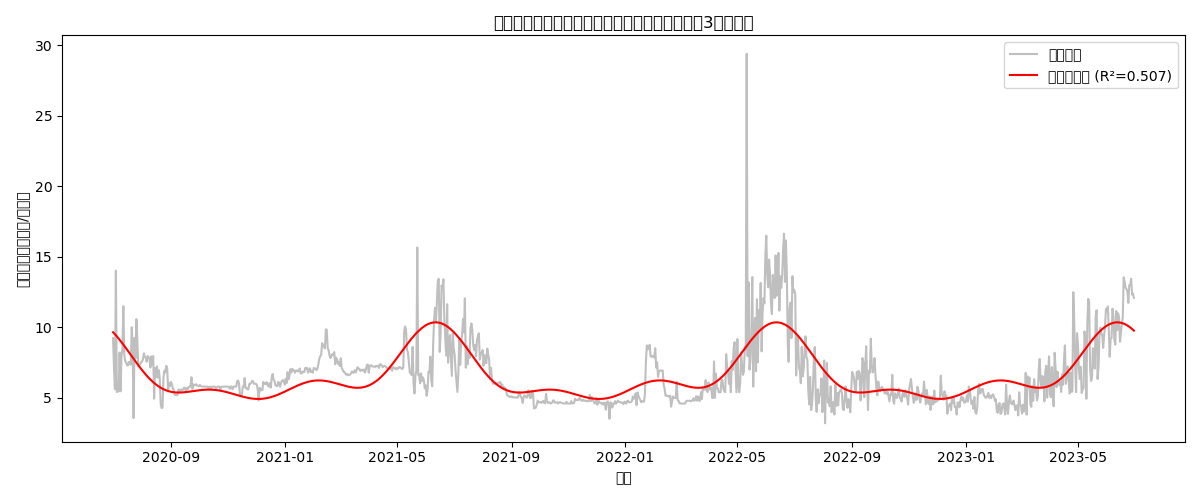
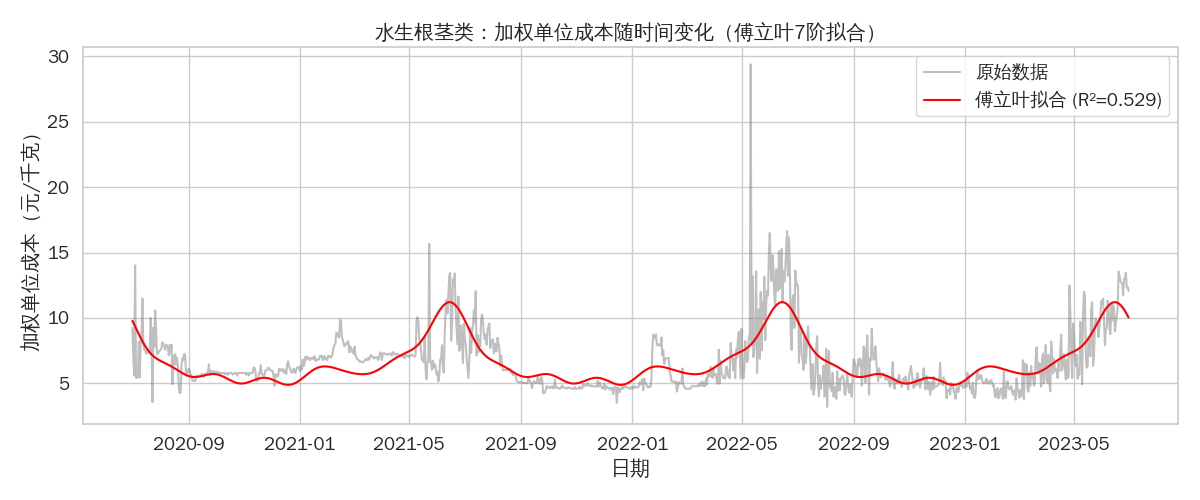
多方式尝试

diff --git a/Q2_Compare.py b/Q2_Compare.py
@@ -1,0 +1,146 @@
+import os
+import pandas as pd
+import numpy as np
+import matplotlib.pyplot as plt
+from sklearn.metrics import r2_score
+from scipy.optimize import curve_fit
+from prophet import Prophet
+from statsmodels.tsa.seasonal import STL
+import matplotlib
+matplotlib.rcParams['font.family'] = 'WenQuanYi Zen Hei'
+matplotlib.rcParams['axes.unicode_minus'] = False  # 解决负号显示问题
+
+# ========== 读取数据 ==========
+os.makedirs("拟合图像/傅立叶", exist_ok=True)
+os.makedirs("拟合图像/Prophet", exist_ok=True)
+os.makedirs("拟合图像/STL", exist_ok=True)
+
+
+
+print("读取中...")
+df = pd.read_excel("每日品类加权成本.xlsx")
+df['天序号'] = (df['销售日期'] - df['销售日期'].min()).dt.days
+
+# ========== 傅立叶函数 ==========
+def fourier_series(x, *a):
+    n = (len(a) - 1) // 2
+    result = a[0]
+    for i in range(1, n + 1):
+        result += a[2 * i - 1] * np.sin(2 * np.pi * i * x / 365.25)
+        result += a[2 * i] * np.cos(2 * np.pi * i * x / 365.25)
+    return result
+
+def fit_fourier(data, category, N=7):
+    x = data['天序号'].values
+    y = data['加权单位成本'].values
+    p0 = [0.0] * (2 * N + 1)
+    try:
+        params, _ = curve_fit(fourier_series, x, y, p0=p0, maxfev=10000)
+        y_pred = fourier_series(x, *params)
+        r2 = r2_score(y, y_pred)
+        res_std = np.std(y - y_pred)
+        amp = y_pred.max() - y_pred.min()
+        # 绘图
+        plt.figure(figsize=(10, 4))
+        plt.plot(data['销售日期'], y, label='原始', alpha=0.5)
+        plt.plot(data['销售日期'], y_pred, label='傅立叶拟合', color='red')
+        plt.title(f"{category} - 傅立叶 R²={r2:.3f}")
+        plt.legend()
+        plt.tight_layout()
+        plt.savefig(f"拟合图像/傅立叶/{category}.png")
+        plt.close()
+        return r2, res_std, amp
+    except:
+        return np.nan, np.nan, np.nan
+
+# ========== Prophet ==========
+def fit_prophet(data, category):
+    df_prophet = data[['销售日期', '加权单位成本']].rename(columns={
+        '销售日期': 'ds', '加权单位成本': 'y'
+    })
+    try:
+        model = Prophet(yearly_seasonality=True, weekly_seasonality=False, daily_seasonality=False)
+        model.fit(df_prophet)
+        future = df_prophet[['ds']]
+        forecast = model.predict(future)
+        y_pred = forecast['yhat'].values
+        y_true = df_prophet['y'].values
+        r2 = r2_score(y_true, y_pred)
+        res_std = np.std(y_true - y_pred)
+        amp = y_pred.max() - y_pred.min()
+        # 绘图
+        plt.figure(figsize=(10, 4))
+        plt.plot(df_prophet['ds'], y_true, label='原始', alpha=0.5)
+        plt.plot(df_prophet['ds'], y_pred, label='Prophet预测', color='green')
+        plt.title(f"{category} - Prophet R²={r2:.3f}")
+        plt.legend()
+        plt.tight_layout()
+        plt.savefig(f"拟合图像/Prophet/{category}.png")
+        plt.close()
+        return r2, res_std, amp
+    except:
+        return np.nan, np.nan, np.nan
+
+# ========== STL分解 ==========
+def fit_stl(data, category):
+    series = data.set_index('销售日期')['加权单位成本'].asfreq('D').interpolate()
+    try:
+        stl = STL(series, period=365)
+        res = stl.fit()
+        trend = res.trend
+        r2 = r2_score(series, trend)
+        res_std = np.std(series - trend)
+        amp = trend.max() - trend.min()
+        # 绘图
+        plt.figure(figsize=(10, 4))
+        plt.plot(series.index, series.values, label='原始', alpha=0.5)
+        plt.plot(series.index, trend.values, label='STL趋势', color='purple')
+        plt.title(f"{category} - STL R²={r2:.3f}")
+        plt.legend()
+        plt.tight_layout()
+        plt.savefig(f"拟合图像/STL/{category}.png")
+        plt.close()
+        return r2, res_std, amp
+    except:
+        return np.nan, np.nan, np.nan
+
+# ========== 主循环 ==========
+results = []
+
+for category in df['分类名称'].unique():
+    data = df[df['分类名称'] == category].copy()
+    # 去除加权单位成本的离群值（IQR 方法）
+    q1 = data['加权单位成本'].quantile(0.25)
+    q3 = data['加权单位成本'].quantile(0.75)
+    iqr = q3 - q1
+    lower_bound = q1 - 1.5 * iqr
+    upper_bound = q3 + 1.5 * iqr
+    before = len(data)
+    data = data[(data['加权单位成本'] >= lower_bound) & (data['加权单位成本'] <= upper_bound)]
+    after = len(data)
+    print(f"已剔除离群点：{before - after} 条，剩余 {after} 条数据")
+
+    print(f"\n👉 分类：{category}")
+
+    r2_f, std_f, amp_f = fit_fourier(data, category)
+    r2_p, std_p, amp_p = fit_prophet(data, category)
+    r2_s, std_s, amp_s = fit_stl(data, category)
+
+    results.append({
+        '分类': category,
+        '方法': '傅立叶', 'R2': r2_f, '残差STD': std_f, '幅度': amp_f
+    })
+    results.append({
+        '分类': category,
+        '方法': 'Prophet', 'R2': r2_p, '残差STD': std_p, '幅度': amp_p
+    })
+    results.append({
+        '分类': category,
+        '方法': 'STL', 'R2': r2_s, '残差STD': std_s, '幅度': amp_s
+    })
+
+# ========== 汇总结果 ==========
+result_df = pd.DataFrame(results)
+result_df.sort_values(['分类', 'R2'], ascending=[True, False], inplace=True)
+result_df.to_excel("拟合效果对比表.xlsx", index=False)
+print("\n✅ 拟合完成，结果保存为：拟合效果对比表.xlsx")

diff --git a/Q2_Function.py b/Q2_Function.py
@@ -6,15 +6,16 @@ import seaborn as sns
 from scipy.stats import pearsonr
 from sklearn.metrics import r2_score
 from scipy.optimize import curve_fit
-
+sns.set(style="whitegrid", font="WenQuanYi Zen Hei", font_scale=1.2)
 # 创建文件夹保存图像
 os.makedirs("每品类成本傅立叶拟合图", exist_ok=True)
 df = pd.read_excel("每日品类加权成本.xlsx")
 print("每日品类加权成本.xlsx读取完成\n")
-# 将日期转为数值时间（以最早日期为起点）
+
+# 转换为天序号
 df['天序号'] = (df['销售日期'] - df['销售日期'].min()).dt.days
 
-# 定义傅立叶拟合函数（N阶）
+# 傅立叶函数
 def fourier_series(x, *a):
     n = (len(a) - 1) // 2
     result = a[0]
@@ -22,11 +23,11 @@ def fourier_series(x, *a):
         result += a[2 * i - 1] * np.sin(2 * np.pi * i * x / 365.25) + a[2 * i] * np.cos(2 * np.pi * i * x / 365.25)
     return result
 
-# 设置傅立叶阶数
-N = 3  # 3阶傅立叶展开（可根据需要调整）
+# 阶数
+N = 7
 initial_guess = [0.0] * (2 * N + 1)
 
-# 遍历每个分类
+# 拟合每个分类
 for category in df['分类名称'].unique():
     data = df[df['分类名称'] == category].copy()
     x = data['天序号'].values
@@ -36,6 +37,18 @@ for category in df['分类名称'].unique():
         params, _ = curve_fit(fourier_series, x, y, p0=initial_guess, maxfev=10000)
         y_pred = fourier_series(x, *params)
         r2 = r2_score(y, y_pred)
+        residuals = y - y_pred
+        std_residual = np.std(residuals)
+        mean_y = np.mean(y)
+        amp_y = y.max() - y.min()
+        amp_pred = y_pred.max() - y_pred.min()
+
+        # 调试输出
+        print(f"👉 分类：{category}")
+        print(f"R² = {r2:.4f}")
+        print(f"原始均值：{mean_y:.4f}，原始波动幅度：{amp_y:.4f}")
+        print(f"拟合波动幅度：{amp_pred:.4f}")
+        print(f"残差标准差：{std_residual:.4f}\n")
 
         # 画图
         plt.figure(figsize=(12, 5))
@@ -49,7 +62,17 @@ for category in df['分类名称'].unique():
         plt.savefig(f"每品类成本傅立叶拟合图/{category}_加权成本_傅立叶拟合.png")
         plt.close()
 
-        print(f"✅ 成功拟合并保存：{category}_加权成本_傅立叶拟合.png")
+        # 可选保存残差图（开启下面注释即可）
+        plt.figure(figsize=(10, 3))
+        plt.plot(data['销售日期'], residuals, color='orange', label="残差")
+        plt.axhline(0, color='black', linestyle='--')
+        plt.title(f"{category}：残差图")
+        plt.tight_layout()
+        plt.savefig(f"每品类成本傅立叶拟合图/{category}_残差图.png")
+        plt.close()
+
+        print(f"✅ 图像保存完成：{category}_加权成本_傅立叶拟合.png\n")
 
     except Exception as e:
         print(f"❌ {category} 拟合失败：{e}")
+
